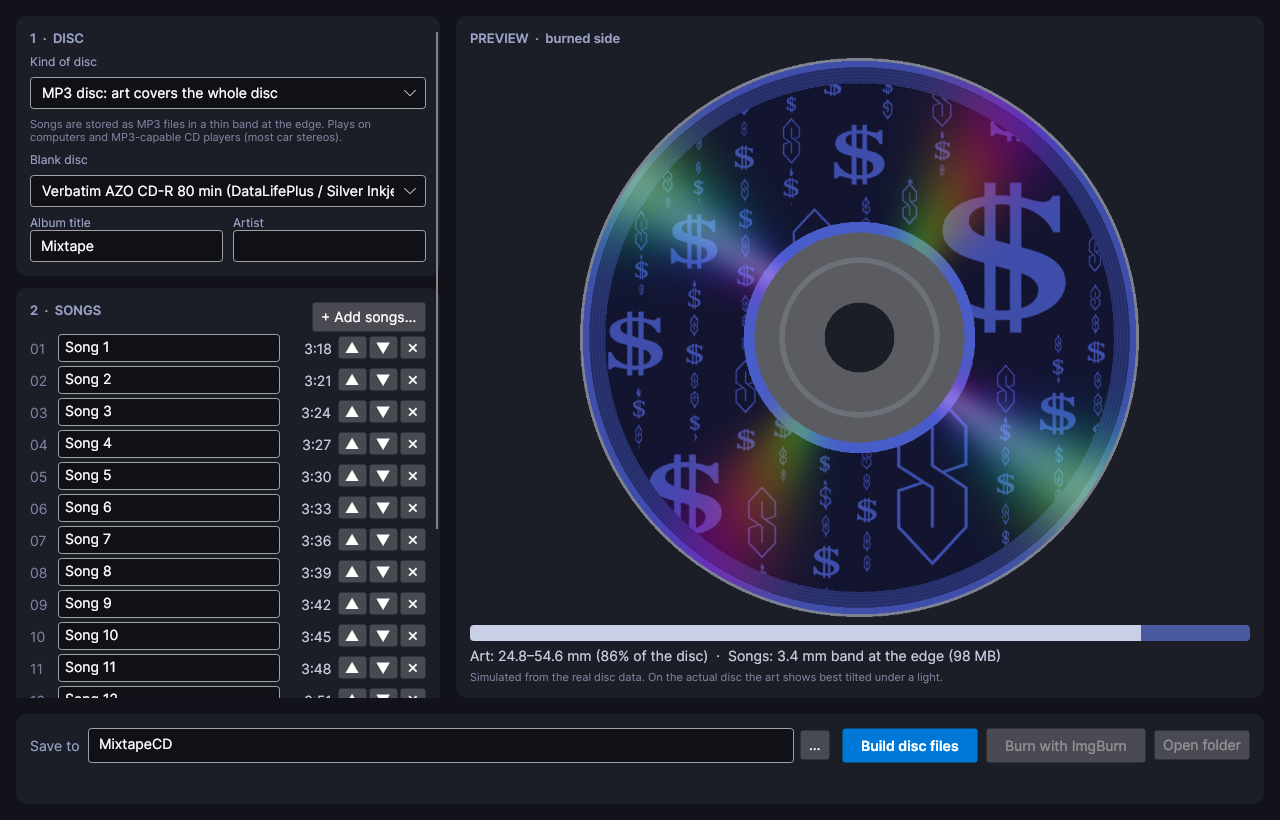
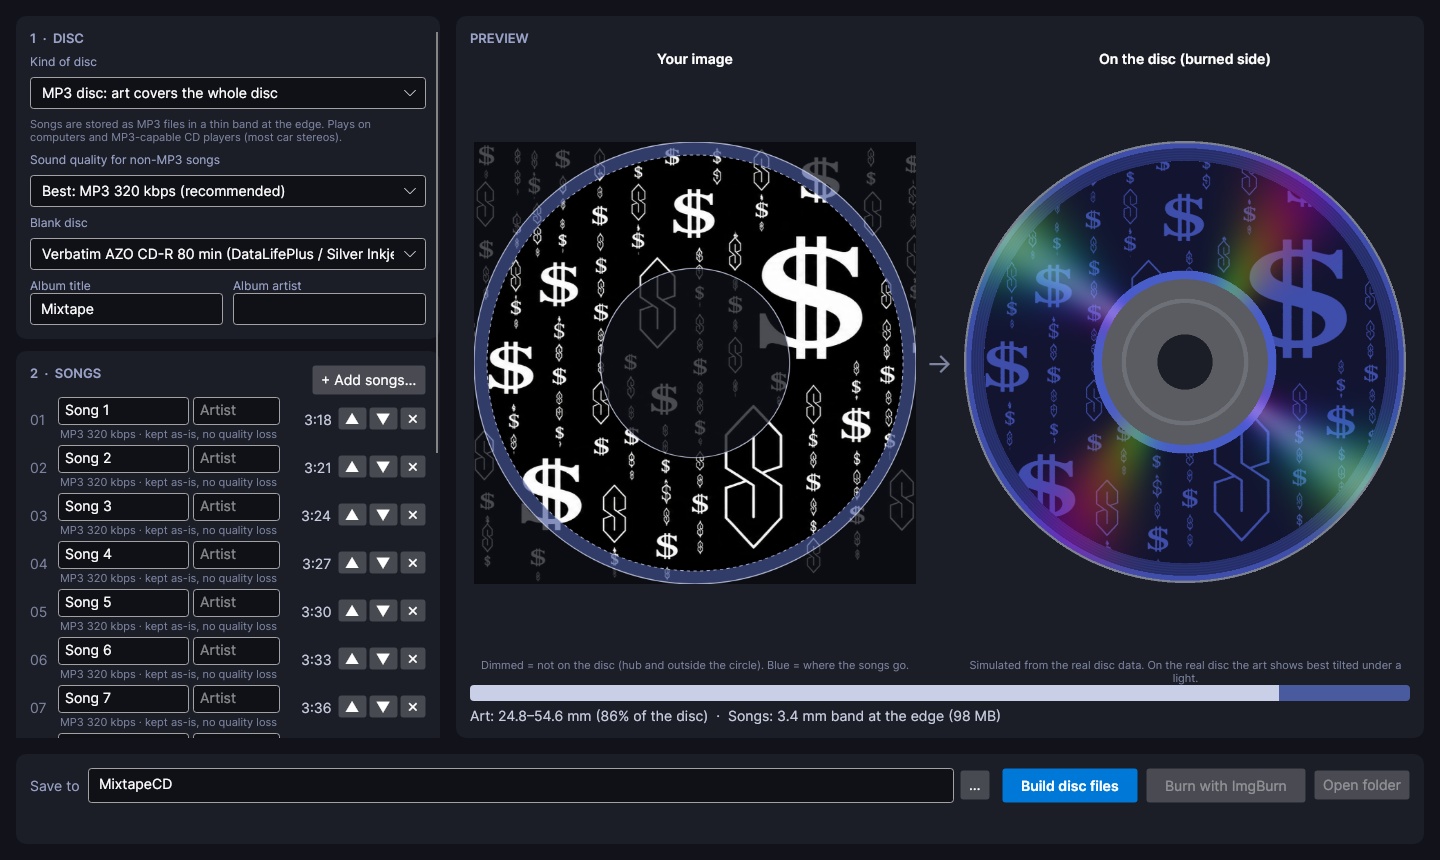
Show the uploaded image and the disc preview side by side
Uploaded art (PNG/JPEG/WebP/BMP/GIF, any aspect) is squared for the engine
(fill or fit), and shown next to the burned-disc render with the hub,
outside area and song band marked.

Claude-Session: https://claude.ai/code/session_01P9jEsYnW8TpTVzxVXT6RcP

diff --git a/src/MixtapeCd.App/ArtPrep.cs b/src/MixtapeCd.App/ArtPrep.cs
@@ -1,0 +1,78 @@
+using System.Security.Cryptography;
+using System.Text;
+using Avalonia;
+using Avalonia.Media;
+using Avalonia.Media.Imaging;
+
+namespace MixtapeCd.App;
+
+/// <summary>
+/// Turns any uploaded picture (PNG, JPEG, WebP, BMP, GIF…) into the square, disc-centred image the
+/// engine expects, and draws the "your image" view with the unused areas dimmed.
+/// </summary>
+internal static class ArtPrep
+{
+    private const int MaxSide = 2048;
+    private static readonly string CacheDirectory = Path.Combine(Path.GetTempPath(), "MixtapeCD", "art");
+
+    /// <summary>Square PNG for the engine. <paramref name="fit"/>: whole image with black borders;
+    /// otherwise the centre square fills the disc.</summary>
+    internal static (string Path, Bitmap Square) PrepareSquare(string source, bool fit)
+    {
+        FileInfo file = new(source);
+        string key = Convert.ToHexString(SHA256.HashData(Encoding.UTF8.GetBytes(
+            $"{file.FullName}|{file.Length}|{file.LastWriteTimeUtc.Ticks}|{fit}")))[..24];
+        Directory.CreateDirectory(CacheDirectory);
+        string output = Path.Combine(CacheDirectory, key + ".png");
+        if (File.Exists(output)) return (output, new Bitmap(output));
+
+        using Bitmap image = new(source);
+        double w = image.PixelSize.Width, h = image.PixelSize.Height;
+        int side = (int)Math.Min(MaxSide, fit ? Math.Max(w, h) : Math.Min(w, h));
+        double scale = side / (fit ? Math.Max(w, h) : Math.Min(w, h));
+        Rect destination = new((side - w * scale) / 2, (side - h * scale) / 2, w * scale, h * scale);
+
+        RenderTargetBitmap square = new(new PixelSize(side, side), new Vector(96, 96));
+        using (DrawingContext context = square.CreateDrawingContext())
+        {
+            context.FillRectangle(Brushes.Black, new Rect(0, 0, side, side));
+            context.DrawImage(image, new Rect(0, 0, w, h), destination);
+        }
+        square.Save(output);
+        return (output, square);
+    }
+
+    /// <summary>
+    /// The square image with everything that won't appear on the disc dimmed: outside the disc,
+    /// the hub, and the song area. Radii are fractions of the square's half-width.
+    /// </summary>
+    internal static Bitmap RenderSourceView(Bitmap square, int size, double hubFraction,
+        double artInnerFraction, double artOuterFraction)
+    {
+        RenderTargetBitmap view = new(new PixelSize(size, size), new Vector(96, 96));
+        double c = size / 2.0;
+        Rect all = new(0, 0, size, size);
+        EllipseGeometry Circle(double fraction) => new(new Rect(c - c * fraction, c - c * fraction,
+            2 * c * fraction, 2 * c * fraction));
+        IBrush dim = new SolidColorBrush(Color.FromArgb(190, 17, 18, 26));
+        IBrush songs = new SolidColorBrush(Color.FromArgb(170, 74, 90, 158));
+        Pen outline = new(new SolidColorBrush(Color.FromArgb(220, 201, 207, 230)), 1.5);
+        Pen dashed = new(new SolidColorBrush(Color.FromArgb(220, 201, 207, 230)), 1.2, new DashStyle([4, 4], 0));
+
+        using DrawingContext context = view.CreateDrawingContext();
+        context.DrawImage(square, new Rect(0, 0, square.PixelSize.Width, square.PixelSize.Height), all);
+        // Outside the disc and the centre hub never carry art.
+        context.DrawGeometry(dim, null, new CombinedGeometry(GeometryCombineMode.Exclude, new RectangleGeometry(all), Circle(1)));
+        context.DrawGeometry(dim, null, Circle(hubFraction));
+        // Song area: inner ring (audio CD) or outer band (MP3 disc).
+        if (artInnerFraction > hubFraction + 0.002)
+            context.DrawGeometry(songs, null, new CombinedGeometry(GeometryCombineMode.Exclude, Circle(artInnerFraction), Circle(hubFraction)));
+        if (artOuterFraction < 0.998)
+            context.DrawGeometry(songs, null, new CombinedGeometry(GeometryCombineMode.Exclude, Circle(1), Circle(artOuterFraction)));
+        context.DrawGeometry(null, outline, Circle(1));
+        context.DrawGeometry(null, outline, Circle(hubFraction));
+        if (artInnerFraction > hubFraction + 0.002) context.DrawGeometry(null, dashed, Circle(artInnerFraction));
+        if (artOuterFraction < 0.998) context.DrawGeometry(null, dashed, Circle(artOuterFraction));
+        return view;
+    }
+}

diff --git a/src/MixtapeCd.App/MainWindow.axaml.cs b/src/MixtapeCd.App/MainWindow.axaml.cs
@@ -21,7 +21,9 @@ public sealed partial class MainWindow : Window
 
     private CancellationTokenSource? _debounce;
     private CancellationTokenSource? _previewCancel;
-    private string? _artPath;
+    private string? _artSource; // what the user picked
+    private string? _artPath;   // square, disc-centred PNG the engine uses
+    private Bitmap? _artSquare;
     private string? _builtCue; // .cue (audio CD) or .iso (MP3 disc) ready for ImgBurn
     private bool _building;
 
@@ -32,6 +34,9 @@ public sealed partial class MainWindow : Window
         InitializeComponent();
         DataContext = this;
 
+        ArtFit.Items.Add(new ComboBoxItem { Content = "Fill the disc (crop the edges)", Tag = false });
+        ArtFit.Items.Add(new ComboBoxItem { Content = "Show the whole image (black borders)", Tag = true });
+        ArtFit.SelectedIndex = 0;
         DiscMode.Items.Add(new ComboBoxItem { Content = "MP3 disc: art covers the whole disc", Tag = true });
         DiscMode.Items.Add(new ComboBoxItem { Content = "Audio CD: art on the outer ring only", Tag = false });
         DiscMode.SelectedIndex = 0;
@@ -133,7 +138,7 @@ public sealed partial class MainWindow : Window
     private void SetDefaultArt(bool onlyIfBuiltIn = false)
     {
         string[] builtIn = BuiltInArtFiles().ToArray();
-        if (onlyIfBuiltIn && _artPath is not null && !builtIn.Contains(_artPath)) return;
+        if (onlyIfBuiltIn && _artSource is not null && !builtIn.Contains(_artSource)) return;
         string wanted = Mp3Mode ? "money.png" : "money-ring.png";
         if (builtIn.FirstOrDefault(a => Path.GetFileName(a) == wanted) is { } art) SetArt(art);
     }
@@ -259,17 +264,35 @@ public sealed partial class MainWindow : Window
 
     internal void SetArt(string path)
     {
+        _artSource = path;
+        ArtName.Text = Path.GetFileName(path);
+        PrepareArt();
+    }
+
+    private void OnArtFitChanged(object? sender, SelectionChangedEventArgs e)
+    {
+        if (IsInitialized && _artSource is not null) PrepareArt();
+    }
+
+    private void PrepareArt()
+    {
+        if (_artSource is null) return;
         try
         {
-            using FileStream stream = File.OpenRead(path);
-            ArtThumb.Source = Bitmap.DecodeToWidth(stream, 176);
+            bool fit = ArtFit.SelectedItem is ComboBoxItem { Tag: true };
+            (string path, Bitmap square) = ArtPrep.PrepareSquare(_artSource, fit);
+            _artPath = path;
+            _artSquare = square;
+            ArtThumb.Source = square;
         }
-        catch (Exception)
+        catch (Exception error)
         {
-            ArtThumb.Source = null; // the engine may still read formats the thumbnail can't
+            _artPath = null;
+            _artSquare = null;
+            ArtThumb.Source = null;
+            SourceView.Source = null;
+            StatusText.Text = $"Can't read that image ({error.Message}). Try a PNG or JPEG.";
         }
-        _artPath = path;
-        ArtName.Text = Path.GetFileName(path);
         InvalidateBuild();
         SchedulePreview();
     }
@@ -338,7 +361,14 @@ public sealed partial class MainWindow : Window
             drawEnd = disc.OutputSectors;
             UpdateLayoutText(disc, music, preparing);
         }
-        if (_artPath is null) return;
+        if (_artPath is null || _artSquare is null) return;
+
+        // Left: the user's image with the parts that won't be on the disc dimmed.
+        double outer = disc.SamplingImageOuterRadiusMm;
+        SourceView.Source = ArtPrep.RenderSourceView(_artSquare, 640,
+            disc.InnerRadiusMm / outer,
+            disc.RadiusFromByte(drawStart * CdDiscParameters.BytesPerSector) / outer,
+            disc.RadiusFromByte(Math.Max(drawStart, drawEnd) * CdDiscParameters.BytesPerSector) / outer);
 
         PreviewBusy.IsVisible = true;
         try

diff --git a/README.md b/README.md
@@ -36,9 +36,12 @@ take roughly 100 MB, a 3–4 mm band at the edge.
      them and reorder with ▲▼.
    - **Disc**: *MP3 disc* and Verbatim AZO are preselected. Switch to *Audio CD* if it must play
      in old CD-only players.
-   - **Disc art**: the money art is preselected; *Choose image…* to use another.
-   - Watch the **preview**: it redraws the burned side whenever you change something,
-     and shows how much room the art has. It warns if there's too much music.
+   - **Disc art**: the money art is preselected; *Choose image…* to use your own (PNG, JPEG,
+     WebP, BMP, GIF; any shape). *Fill the disc* crops it to a square, *Show the whole image* adds
+     black borders.
+   - Watch the **preview**: your image and the burned disc side by side. On the left, dimmed areas
+     won't be on the disc and blue marks where the songs go; the right redraws the burned side
+     whenever you change something. It warns if there's too much music.
 4. **Build disc files**, then **Burn with ImgBurn**. ImgBurn opens with the disc (`.iso` for MP3
    discs, `mixtape.cue` for audio CDs) loaded; insert a blank, choose a slow speed and click Write.
 
